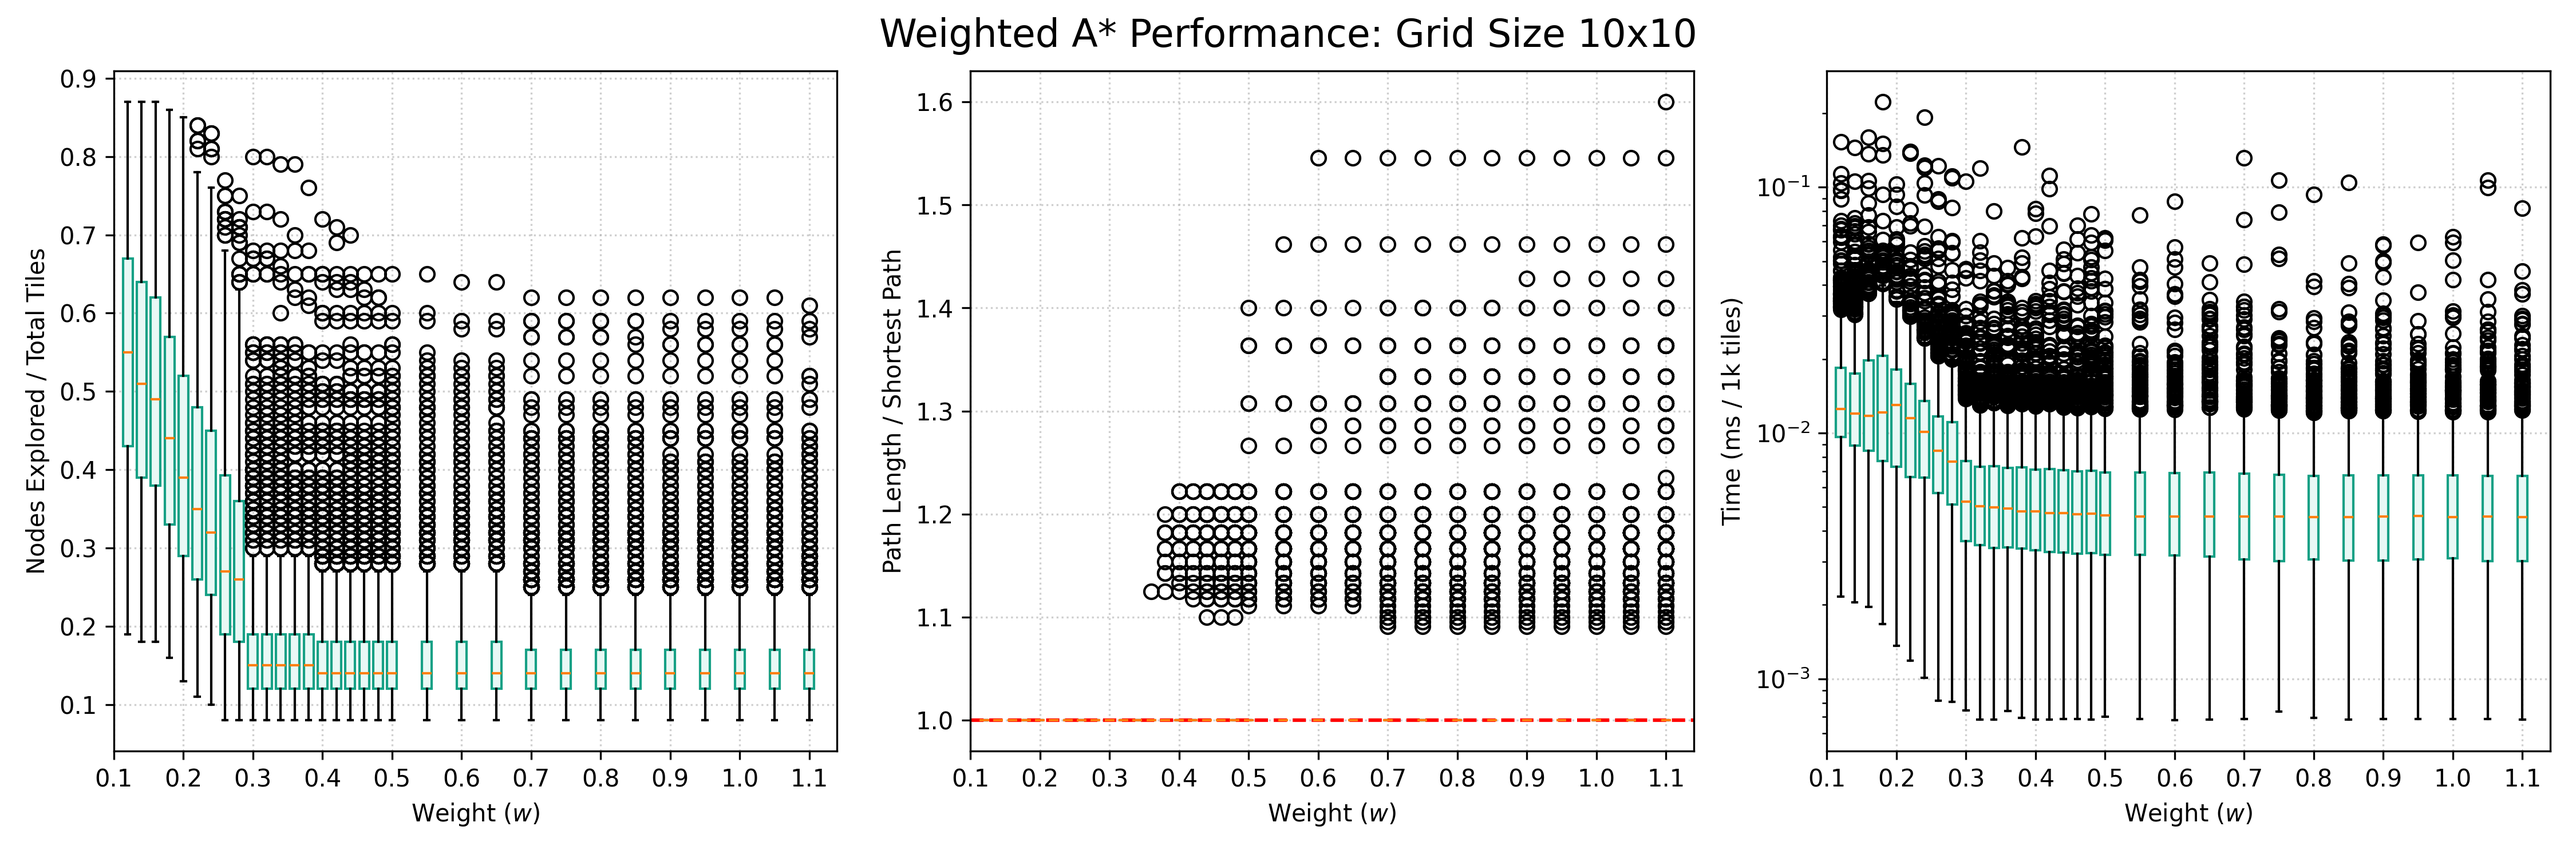
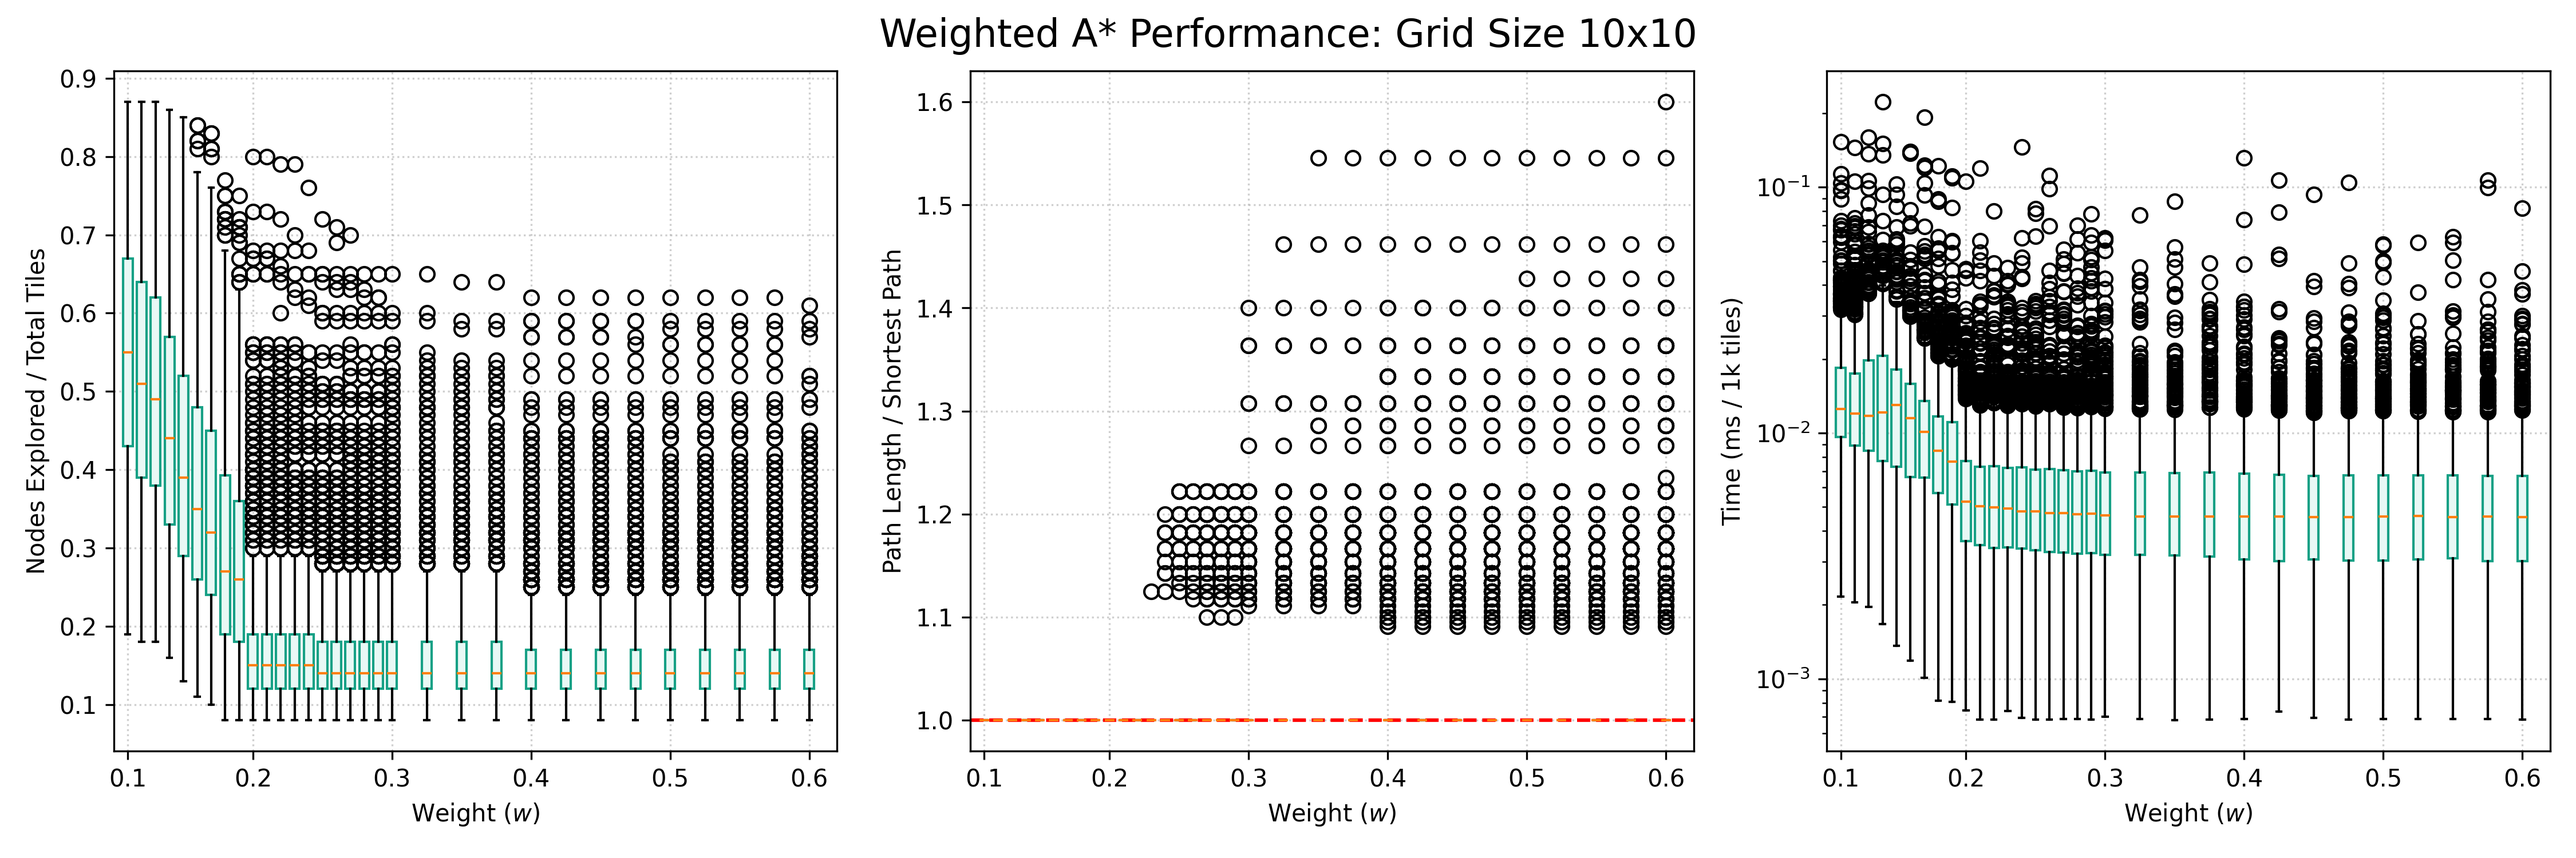
Playing with Graphs

diff --git a/home/analysis_box.py b/home/analysis_box.py
@@ -32,6 +32,7 @@ def load_and_boxplot(file_path):
         # Extract and sort the weights used in this batch
         weights = sorted(all_trials[0].path_distances_man.keys())
 
+
         # Prepare lists to hold a list of values for EACH weight
         # e.g., efficiency_data = [[vals for w1], [vals for w2], ...]
         efficiency_data = []
@@ -64,6 +65,8 @@ def load_and_boxplot(file_path):
             optimality_data.append(opt_at_w)
             time_data.append(time_at_w)
 
+        
+
    
         # 2. Create the Plots
         fig, (ax1, ax2, ax3) = plt.subplots(1, 3, figsize=(15, 5))
@@ -91,14 +94,17 @@ def load_and_boxplot(file_path):
         ax2.boxplot(optimality_data, positions=weights, widths=box_width, **style)
         ax3.boxplot(time_data, positions=weights, widths=box_width, **style)
 
+
         # 4. Format the X-Axis to show the full 0.1 - 5.0 range
         for ax in [ax1, ax2, ax3]:
             # Set ticks every 0.5 so they don't overlap, but the boxes stay at their weights
             tick_values = np.arange(0, 5.5, 0.5)
             ax.set_xticks(tick_values)
+            ax.set_xticks([0.1, 1, 2, 3, 4, 5])
+            ax.autoscale(enable=False, axis='x')
             
             # Force the x-axis to show the whole range
-            ax.set_xlim(0, 5.2) 
+            ax.set_xlim(0, 5.2)
             
             ax.set_xlabel("Weight ($w$)")
             ax.grid(True, linestyle=':', alpha=0.6)
